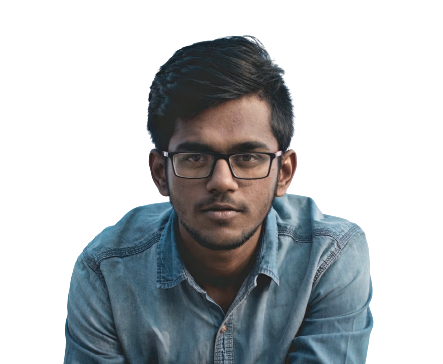
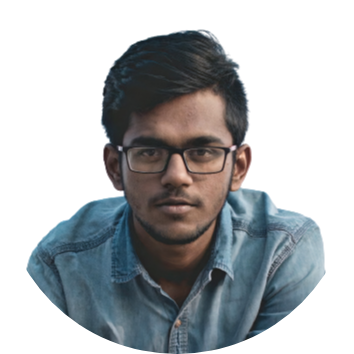
Fixed hero image component

Changed region(s): [[0.0621, 0.0621, 0.9322, 1.0]]

diff --git a/components/HomeHero/HomeHero.module.css b/components/HomeHero/HomeHero.module.css
@@ -9,7 +9,7 @@
 
 .inner-container {
   display: flex;
-  justify-content: center;
+  justify-content: space-between;
   width: 70%;
   margin: auto;
   height: 100%;
@@ -93,8 +93,15 @@
 }
 
 .half-container-image {
-  display: flex;
-  justify-content: center;
   flex: 1;
-  align-self: flex-end;
+  align-items: center;
+  display: flex;
+  justify-content: flex-end;
+}
+
+.half-container-image > img {
+  border-radius: 50%;
+  background: linear-gradient(134.17deg, #eef0f5 4.98%, #e6e9ef 94.88%);
+  box-shadow: -12px -12px 20px rgba(255, 255, 255, 0.8),
+    10px 10px 20px rgba(166, 180, 200, 0.7);
 }

diff --git a/components/HomeHero/HomeHero.js b/components/HomeHero/HomeHero.js
@@ -40,8 +40,9 @@ const HomeHero = () => {
             <span>DOWNLOAD RÉSUMÉ</span>
           </a>
         </div>
+
         <div className={styles['half-container-image']}>
-          <img src="/assets/udaya.png" alt="" />
+          <img src="/assets/udaya.png" alt="" width={300} />
         </div>
       </div>
     </div>
